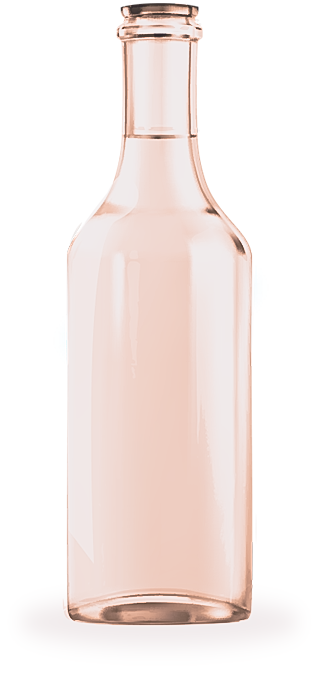
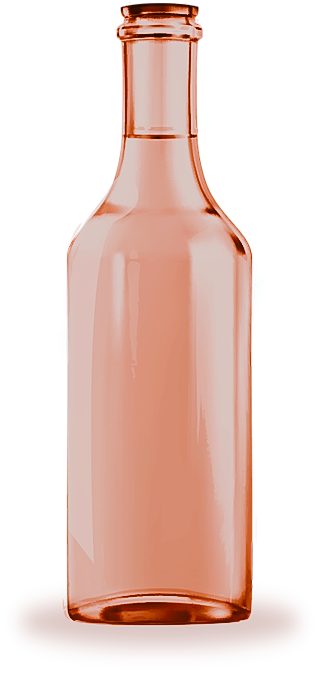
Big update #2
Updated multi functions in JS file.

diff --git a/js/tveffect.js b/js/tveffect.js
@@ -1,5 +1,8 @@
-var count = 0; //use var for bigger scope. Let is for within a local function only
+var ingredientCount = 0; //use var for bigger scope. Let is for within a local function only
+var idCount = 0; //use var for bigger scope
 var isCompleted = false;
+var idChosen = [];
+var base = ["coffee", "juice", "tea"];
 
 function zoomOut() {
   background = document.getElementById("bg");
@@ -13,20 +16,27 @@ function zoomOut() {
 function clicked(element) {
   element.style.visibility = "inherit";
   element.style.border = "5px solid rgba(255, 255, 255, 0)";
-  count += 1;
-  console.log(element.id);
-  console.log(count);
+  ingredientCount += 1;
+  idChosen.push(element.id);
 }
 
 function resetState() {
+  console.log("resetted");
   elements = document.getElementsByClassName("ingredient-img");
   for (var i = 0; i < elements.length; i++) {
     elements[i].style.border = "none";
   }
+  hideBottle();
+  ingredientCount = 0;
+  isCompleted = false;
+  idChosen = [];
+  idCount = 0;
 }
 
 function showBottle() {
   item = document.getElementById("bottle");
+  item.style.display = "block";
+  item = document.getElementById("bottle-bg");
   item.style.display = "block";
 }
 
@@ -36,17 +46,33 @@ function hideBottle() {
 }
 
 function verify() {
-  if (count === 3) {
+  // check if already show bottle
+  if (ingredientCount === 3) {
     if (isCompleted == true) {
-      hideBottle();
       resetState();
       return;
     }
-    showBottle();
-    isCompleted = true;
+    // check if chosen 1 main ingredient (base) and 2 additional mixes
+    for (var i = 0; i < idChosen.length; i++) {
+      for (var j = 0; j < base.length; j++) {
+        if (idChosen[i] === base[j]) {
+          idCount += 1;
+        }
+      }
+    }
+    i = 0;
+    j = 0;
+    if (idCount == 1) {
+      showBottle();
+      isCompleted = true;
+    } else {
+      console.log("You should choose only 1 main and 2 other mixes");
+      resetState();
+    }
   } else {
-    console.log(count + " not enough ingredients");
+    // check if choose more or less than 3 ingredients
+    console.log(ingredientCount + " is not the right number of ingredients");
     resetState();
-    count = 0;
+    return;
   }
 }

diff --git a/css/index.css b/css/index.css
@@ -8,7 +8,6 @@ body {
   font-family: "Helvetica Neue", Helvetica, Arial;
   font-size: 18px;
   height: 100vh;
-
   background-size: 100vw;
   overflow: hidden;
 }
@@ -44,6 +43,7 @@ li {
   justify-content: space-between;
   align-items: center;
   height: 100%;
+  z-index: 5;
 }
 
 .navbar h2 {
@@ -149,7 +149,7 @@ li {
   border: none;
   background-color: rgb(116, 40, 27);
   padding: 5px 5px 5px 5px;
-  z-index: 11;
+  z-index: 0;
   align-items: center;
   justify-content: space-around;
   border-radius: 8px;
@@ -208,10 +208,21 @@ li {
 
 /* Bottle */
 #bottle {
-  position: absolute;
+  position: inherit;
   max-height: 50vh;
-  height: 50vh;
-  top: 36vh;
-  left: 25vw;
+  height: 30vh;
+  top: 37vh;
+  left: 18vw;
   display: none;
+  z-index: 20;
+}
+#bottle-bg {
+  position: absolute;
+  height: 73vh;
+  width: 40vw;
+  top: 95px;
+  left: 8vw;
+  display: none;
+  background-color: rgba(103, 70, 64, 0.425);
+  border-radius: 10px;
 }

diff --git a/index.html b/index.html
@@ -35,7 +35,13 @@
           class="ingredient-img"
           onclick="clicked(this)"
         />
-        <img src="img/tea.png" alt="Tea" id="tea" onclick="clicked(this)" />
+        <img
+          src="img/tea.png"
+          alt="Tea"
+          id="tea"
+          class="ingredient-img"
+          onclick="clicked(this)"
+        />
         <h3 id="mix">Mix (Choose two)</h3>
         <img
           src="img/caramel.png"
@@ -70,6 +76,9 @@
     <div>
       <img id="bg" class="bg-large" src="img/bg-tv.png" alt="Bar Background" />
     </div>
-    <div><img id="bottle" src="img/bottle.png" alt="Bottle of liquid" /></div>
+    <div id="bottle-bg">
+      <h3></h3>
+      <img id="bottle" src="img/juice-bottle.png" alt="Bottle of liquid" />
+    </div>
   </body>
 </html>
